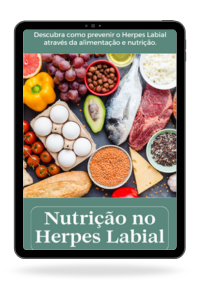
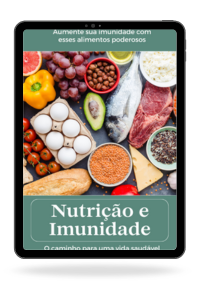
Imagens, copy

Changed region(s): [[0.09, 0.09, 0.9, 0.84], [0.63, 0.33, 0.66, 0.36]]

diff --git a/src/app/home/home.js b/src/app/home/home.js
@@ -212,11 +212,11 @@ export default function Home() {
                     </h2>
                     <ul className="text-gray-600 dark:text-gray-800 w-full m-auto text-left text-base md:text-1xl">
                       {[
-                        "Programa alimentar completo de 21 dias desenvolvido especialmente para mulheres com Lipedema;",
-                        "Mais de 30 receitas anti-inflamatórias para o dia a dia (café-da-manhã, almoço, lanches e jantar);",
-                        "Desinflame seu corpo e reduza as dores e inchaço do Lipedema antes mesmo de perder peso;",
-                        "Elimine o peso nas pernas através do nosso programa alimentar alimentação exclusivo para o Lipedema;",
-                        "Receitas simples de fácil preparo.",
+                        "Melhoria da Saúde Digestiva;",
+                        "Aumento da Absorção de Nutrientes;",
+                        "Fortalecimento do Sistema Imunológico;",
+                        "Redução da Inflamação;",
+                        "Prevenção de Complicações Graves.",
                       ].map((item, i) => (
                         <li key={i} className="mb-4 flex items-start">
                           <Image
@@ -238,12 +238,14 @@ export default function Home() {
                   <Image alt="profil" src={ebook3} className="mx-auto object-cover rounded" />
                   <div className="w-full md:w-2/3">
                     <h2 className="text-xl text-left font-bold text-primary mb-3">
-                      Nutrição no Herpes Labial
+                      Nutrição e Imunidade na Herpes Labial
                     </h2>
                     <ul className="text-gray-600 dark:text-gray-800 w-full m-auto text-left text-base">
                       {[
                         "Aumente sua imunidade com esse guia de nutrição criado especialmete para o Herpes Labial;",
                         "Conheça os alimentos que potencializam a imunidade do nosso organismo;",
+                        "Conheça os alimentos devem ser evitados e que ajudam o vírus a se manifestar;",
+                        "Receitas de vitaminas especiais para a imunidade e Herpes Labial;",
                       ].map((item, i) => (
                         <li key={i} className="mb-4 flex items-start">
                           <Image
@@ -290,7 +292,7 @@ export default function Home() {
                 </p>
                 <p className="uppercase mb-10 text-center">
                   <span className="font-bold">
-                    DESPARASITAÇÃO NATURAL + NUTRIÇÃO NO HERPES LABIAL
+                    DESPARASITAÇÃO NATURAL + Nutrição e Imunidade
                   </span>
                   <br />
                   TOTALMENTE gratuito!
@@ -340,7 +342,7 @@ export default function Home() {
                 VALOR TOTAL DE R$ 247
               </p>
               <p className="text-3xl uppercase text-center font-bold text-green-600">
-                POR R$ 147 à vista <br />(apenas hoje)
+                POR R$ 97 à vista <br />(apenas hoje)
               </p>
               <h3 className="text-4xl text-center font-bold text-primary mt-2">
                 Tenha acesso ao
@@ -439,7 +441,7 @@ export default function Home() {
                   PIRATARIA É <span className="font-bold">CRIME</span>
                 </h3>
                 <p className="text-xs mb-2">
-                  A venda dos Livre-se do Herpes Labial só pode ser realizada através
+                  A venda do Programa Livre-se do Herpes Labial só pode ser realizada através
                   deste site. Qualquer outro site onde você encontre este
                   programa é uma FALSIFICAÇÃO e vai contra as leis. Evite
                   falsificações e recuse conteúdos ilegais ou pirateados. Não
